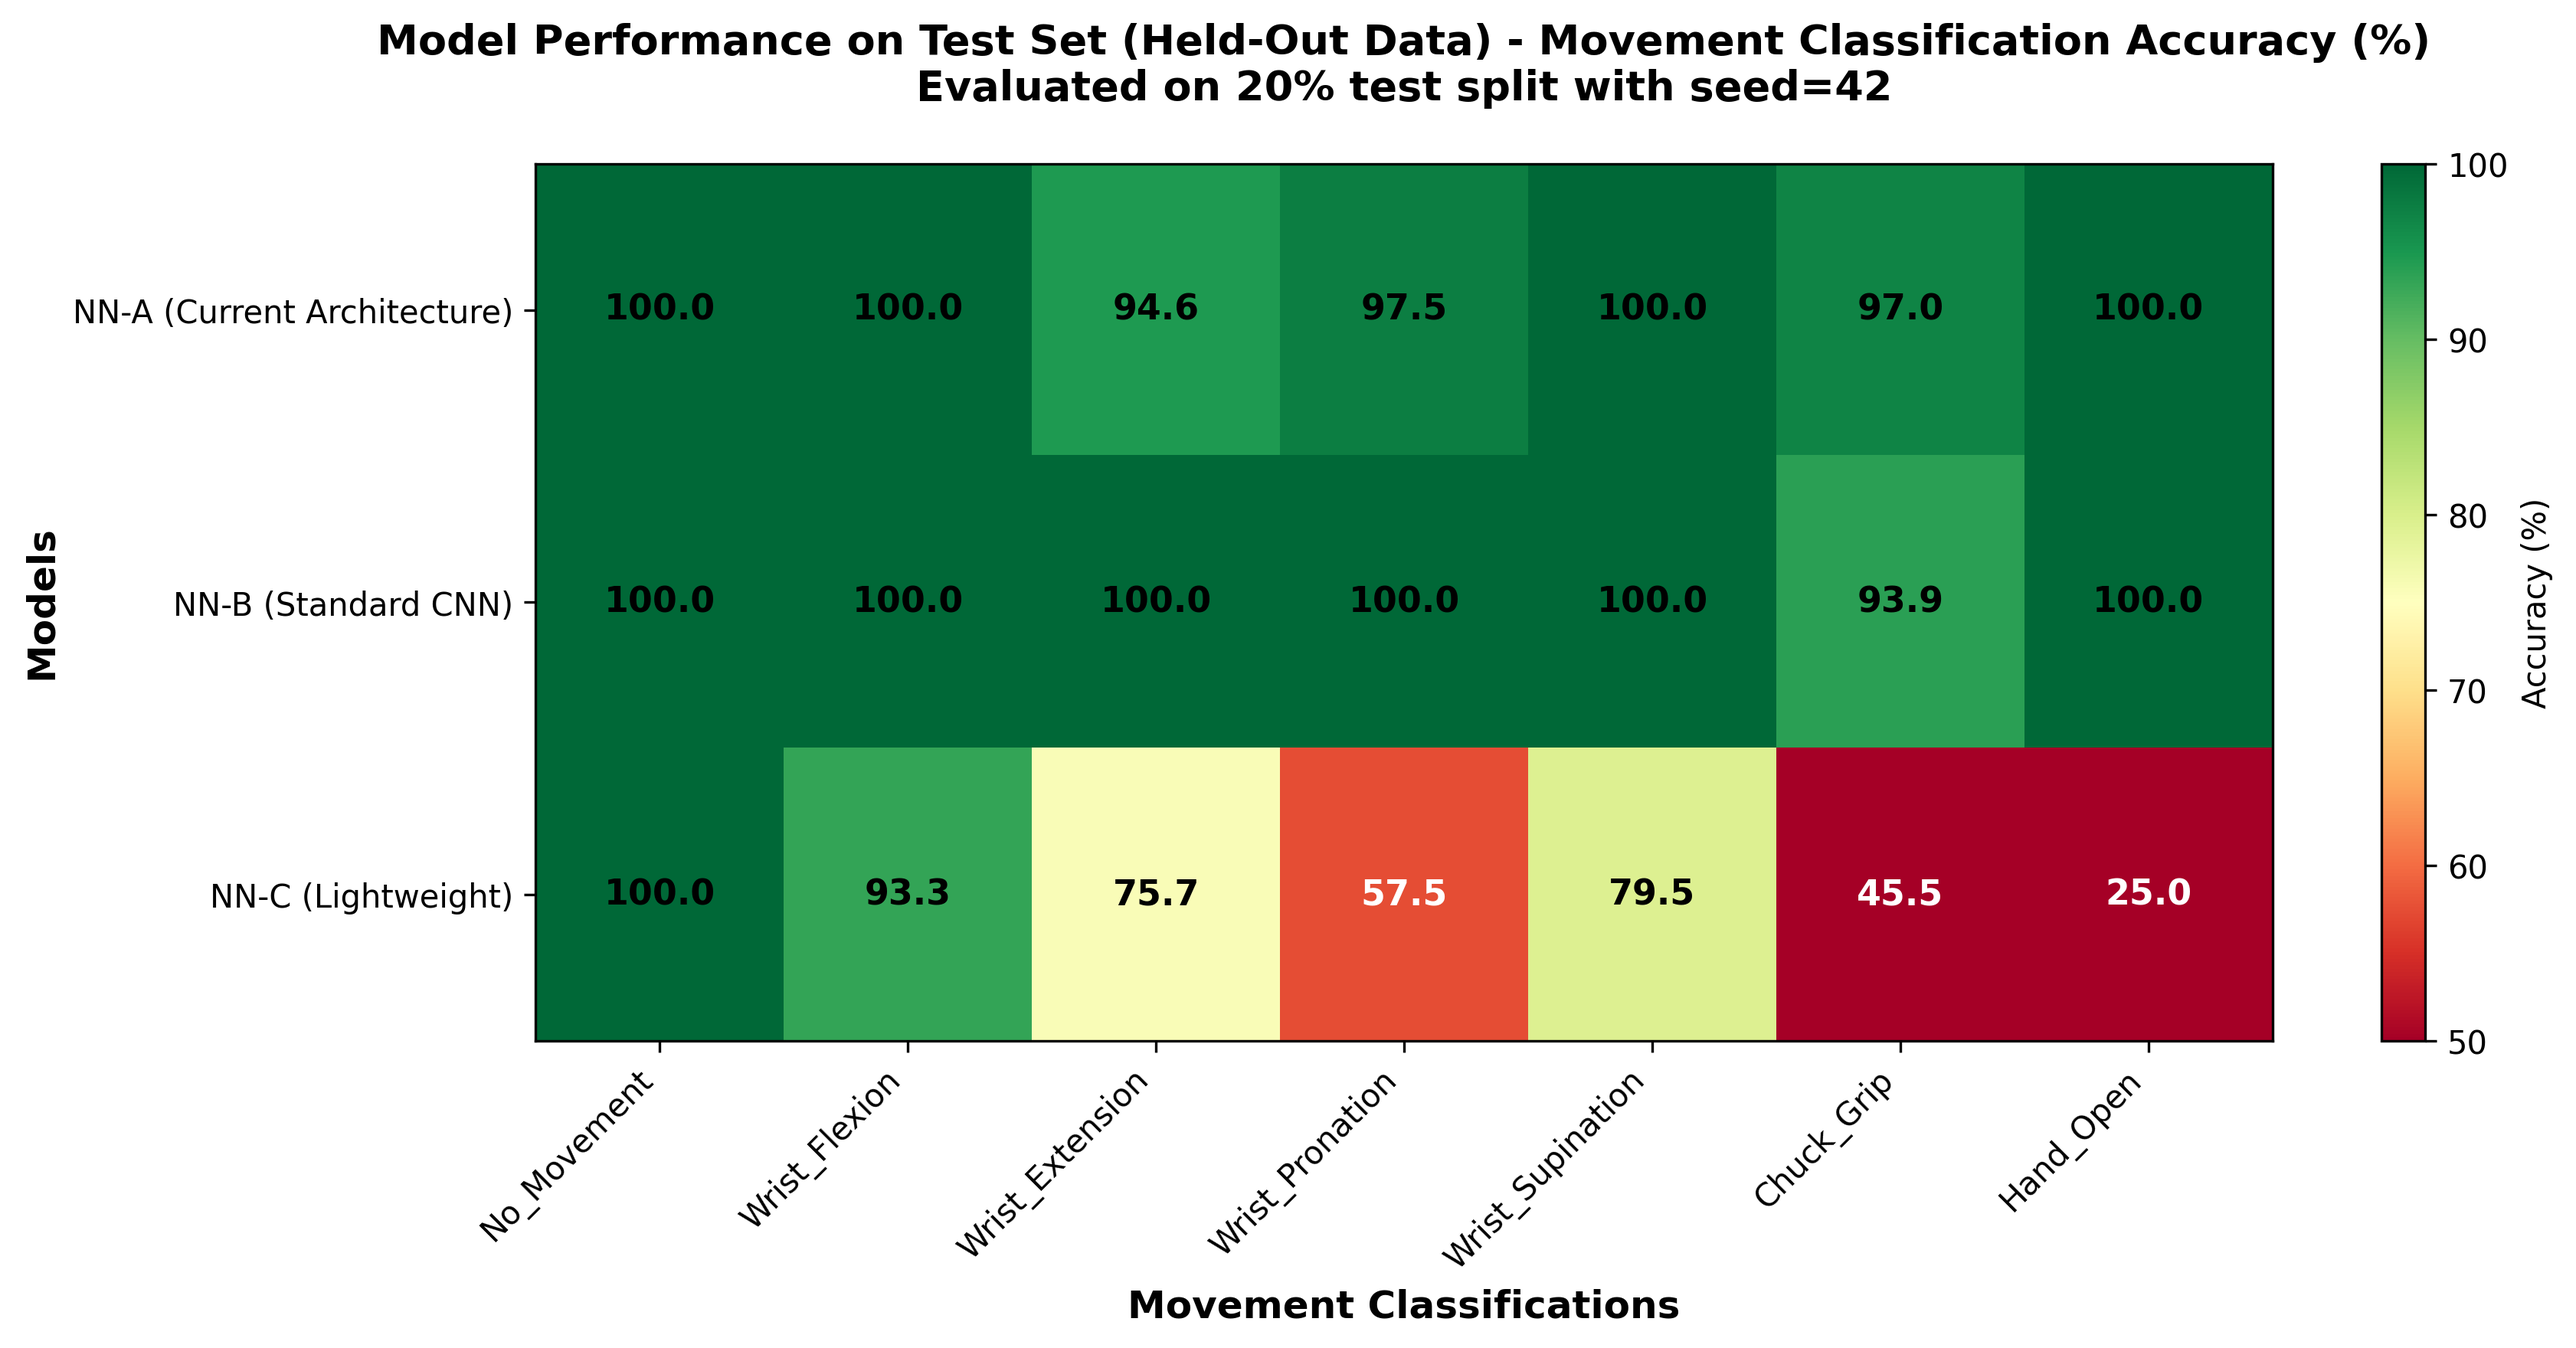
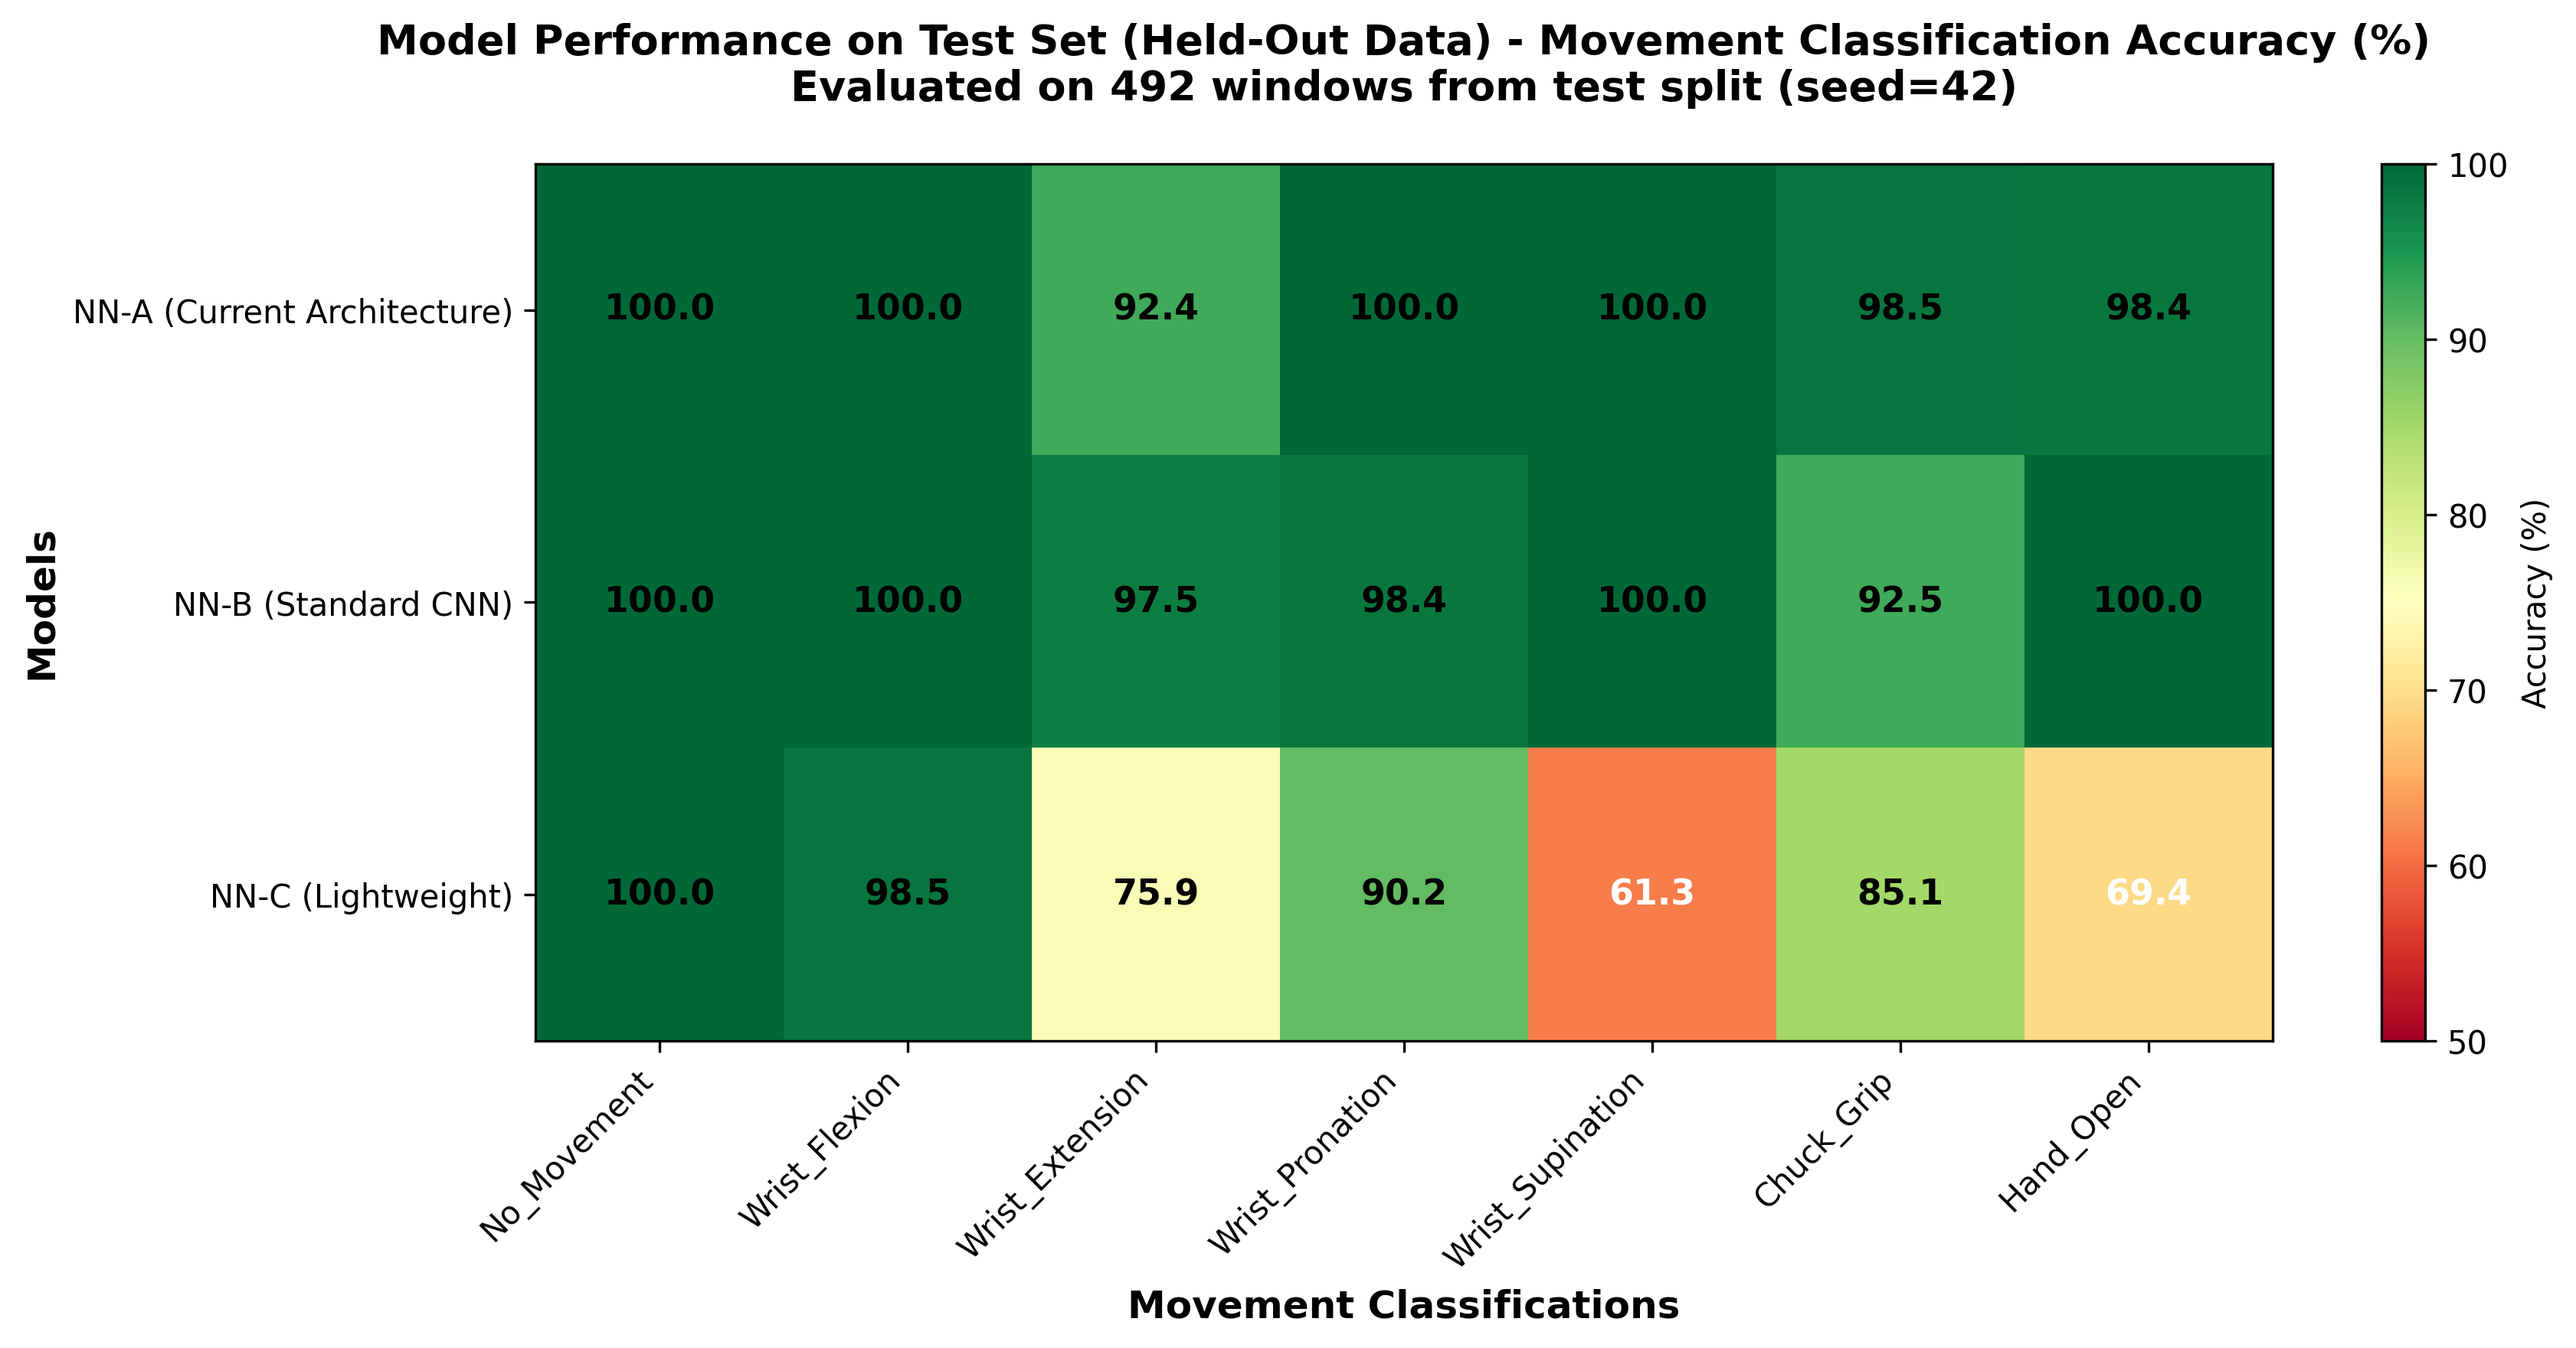
modified:   DATA/Data_visualization.py 	modified:   DATA/Results/Heatmaps/model_heatmap_data.json 	modified:   DATA/Results/Heatmaps/model_performance_heatmap.png 	modified:   config.py

diff --git a/DATA/Data_visualization.py b/DATA/Data_visualization.py
@@ -68,19 +68,14 @@ HEATMAP_RESULTS_DIR = os.path.join(RESULTS_DIR, "Heatmaps")
 #      - TRAIN_SPLIT = 0.8 → 80% train, 20% test (current)
 #      - TRAIN_SPLIT = 0.7 → 70% train, 30% test (more test samples)
 #
-# Run 'python Scripts/config.py' to see the impact of different settigs!n
+# Run 'python Scripts/config.py' to see the impact of different settings!
 #
-# Edit these variables to control how many test windows are used when comparing
-# multiple NN architectures in the heatmap.
-#
-# HEATMAP_TRAIN_SPLIT & HEATMAP_SPLIT_SEED:
-# - Controls the train/test split (0.8 = 80% train, 20% test)
-# - Seed ensures the same split is created on every run (reproducibility)
-#
-# HEATMAP_WINDOW_SIZE & HEATMAP_STRIDE:
-# - Window size: How many consecutive EMG samples form one input (100 samples = 100ms)
-# - Stride: Step size when sliding the window (50 = 50% overlap)
-# - MUST MATCH training settings for fair evaluation
+# ============================================================================
+# EVALUATION CONTROLS - Configure heatmap generation settings
+# ============================================================================
+# NOTE: Window settings (WINDOW_SIZE, STRIDE, TRAIN_SPLIT) are imported from
+# config.py and CANNOT be changed here. These must match training settings!
+# If you change config.py, you MUST retrain models before evaluation.
 #
 # HEATMAP_MAX_TEST_SAMPLES (THE KEY CONTROL FOR EVALUATION SAMPLE COUNT):
 # - None       -> Use ALL test windows (no subsampling)
@@ -113,12 +108,6 @@ HEATMAP_RESULTS_DIR = os.path.join(RESULTS_DIR, "Heatmaps")
 # - "random"   -> Deterministic random subset (same samples each run, but shuffled)
 # - "first"    -> Take the first N windows in order
 # ============================================================================
-# IMPORTANT: These now default to shared config values from config.py
-# This ensures evaluation uses the SAME window settings as training!
-HEATMAP_TRAIN_SPLIT = TRAIN_SPLIT     # Train/test split ratio (from config.py)
-HEATMAP_SPLIT_SEED = SPLIT_SEED       # Random seed for reproducible splits (from config.py)
-HEATMAP_WINDOW_SIZE = WINDOW_SIZE     # EMG samples per window (from config.py)
-HEATMAP_STRIDE = STRIDE               # Stride for sliding windows (from config.py)
 HEATMAP_MAX_TEST_SAMPLES = 1000       # Max test windows to evaluate (see explanation above)
 HEATMAP_SUBSET_STRATEGY = "random"    # "random" or "first"
 
@@ -204,6 +193,36 @@ def select_eval_indices(total_size, max_samples=None, strategy="random", seed=42
     sampled = torch.randperm(total_size, generator=generator)[:max_samples]
     return sampled.tolist()
 
+def validate_model_config(checkpoint, model_name):
+    """
+    Validate that a loaded model was trained with the current config settings.
+    
+    Args:
+        checkpoint: Model checkpoint dict containing training metadata
+        model_name: Name of the model for error messages
+    
+    Returns:
+        bool: True if compatible, False otherwise
+    """
+    if 'window_size' not in checkpoint:
+        print(f"\n⚠  Warning: {model_name} doesn't have window_size metadata.")
+        print(f"   This is an old model. Assuming it was trained correctly.")
+        return True
+    
+    model_window_size = checkpoint['window_size']
+    current_window_size = WINDOW_SIZE
+    
+    if model_window_size != current_window_size:
+        print(f"\n❌ ERROR: Config mismatch for {model_name}!")
+        print(f"   Model was trained with: window_size={model_window_size}")
+        print(f"   Current config.py has:  window_size={current_window_size}")
+        print(f"\n   ⚠  You MUST retrain this model after changing config.py!")
+        print(f"   Run: python Scripts/NN/train.py")
+        return False
+    
+    return True
+
+
 def calculate_dataset_breakdown(window_size=100, stride=50, train_split=0.8):
     """
     Calculate and display how raw CSV data becomes windowed train/test samples.
@@ -255,9 +274,9 @@ def calculate_dataset_breakdown(window_size=100, stride=50, train_split=0.8):
 def print_dataset_breakdown():
     """Print a human-readable explanation of the data flow."""
     breakdown = calculate_dataset_breakdown(
-        window_size=HEATMAP_WINDOW_SIZE,
-        stride=HEATMAP_STRIDE,
-        train_split=HEATMAP_TRAIN_SPLIT
+        window_size=WINDOW_SIZE,
+        stride=STRIDE,
+        train_split=TRAIN_SPLIT
     )
     
     print("\n" + "="*80)
@@ -301,7 +320,8 @@ def print_dataset_breakdown():
     print("💡 KEY INSIGHT:")
     print(f"   Your {breakdown['total_raw_timesteps']:,} raw timesteps become {breakdown['test_windows']:,} test windows.")
     print(f"   This is because overlapping windows are created from continuous data.")
-    print(f"   To control evaluation: Set HEATMAP_MAX_TEST_SAMPLES < {breakdown['test_windows']:,}")
+    print(f"\n⚠  To change window count: Edit Scripts/config.py and retrain models!")
+    print(f"   Current: WINDOW_SIZE={WINDOW_SIZE}, STRIDE={STRIDE}")
     print("="*80 + "\n")
     
     return breakdown
@@ -809,10 +829,10 @@ def generate_analytics_report():
     print("="*80)
 
 def generate_model_heatmap(
-    train_split=HEATMAP_TRAIN_SPLIT,
-    split_seed=HEATMAP_SPLIT_SEED,
-    eval_window_size=HEATMAP_WINDOW_SIZE,
-    eval_stride=HEATMAP_STRIDE,
+    train_split=TRAIN_SPLIT,
+    split_seed=SPLIT_SEED,
+    eval_window_size=WINDOW_SIZE,
+    eval_stride=STRIDE,
     max_test_samples=HEATMAP_MAX_TEST_SAMPLES,
     subset_strategy=HEATMAP_SUBSET_STRATEGY
 ):
@@ -895,7 +915,12 @@ def generate_model_heatmap(
         
         try:
             # Load model
-            model, _ = load_trained_model(model_path)
+            model, checkpoint = load_trained_model(model_path)
+            
+            # Validate model was trained with current config
+            if not validate_model_config(checkpoint, model_name):
+                print(f"     ✗ Skipping due to config mismatch")
+                continue
             
             # Initialize analytics for this model
             model_analytics = initialize_analytics_data(model_path)

diff --git a/config.py b/config.py
@@ -29,7 +29,7 @@ WINDOW_SIZE = 100
 #   Stride=25  → (3000-100)/25  + 1 = 117 windows per CSV → 2,457 total windows
 #   Stride=10  → (3000-100)/10  + 1 = 291 windows per CSV → 6,111 total windows
 #   Stride=1   → (3000-100)/1   + 1 = 2,901 windows per CSV → 60,921 total windows
-STRIDE = 50
+STRIDE = 25
 
 # TRAIN_SPLIT: Fraction of windows used for training vs testing
 # - 0.8 = 80% training, 20% testing
